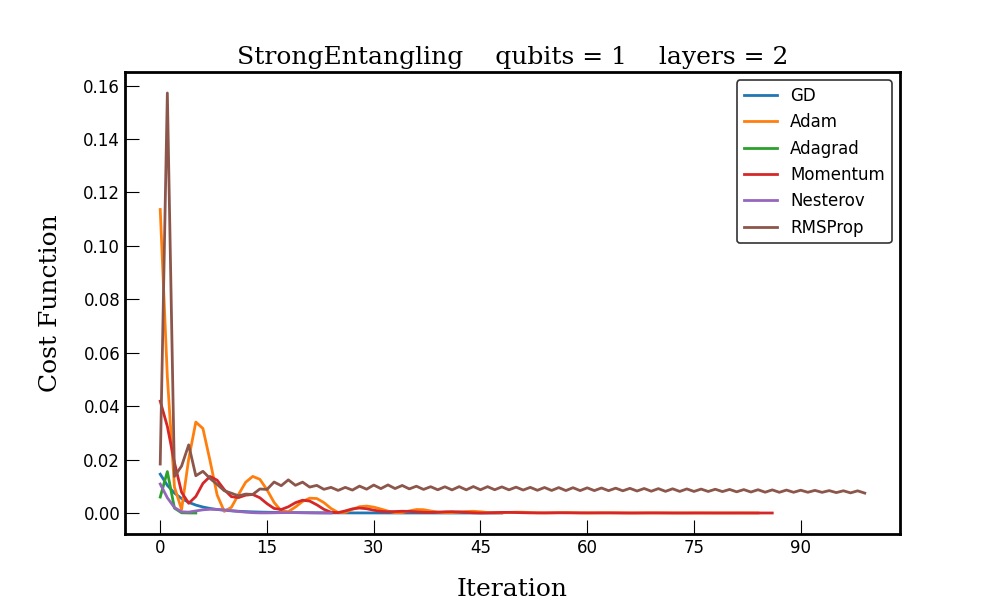
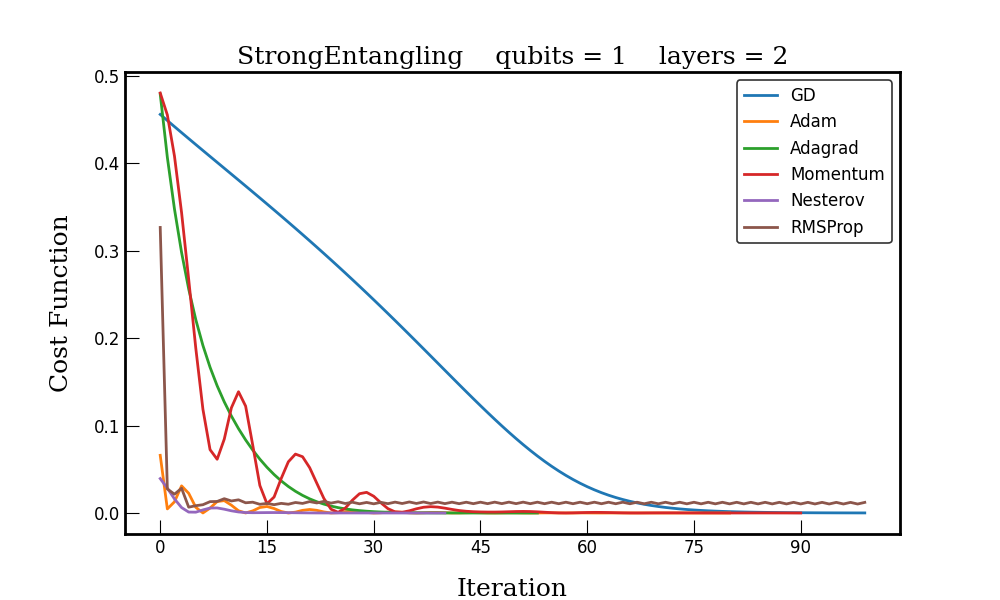
vqls_fast_and_slow.py now using embedding class

diff --git a/src/vqls/vqls_fast_and_slow.py b/src/vqls/vqls_fast_and_slow.py
@@ -1,6 +1,7 @@
 import src.utils.utils as utils
 from skopt import gp_minimize
 from src.utils.ansatz import *
+from src.utils.embedding import *
 from src.optimizers.optim_qml import *
 import matplotlib.pyplot as plt
 
@@ -18,13 +19,16 @@ class FastSlowVQLS:
         # Pauli decomposition
         self.mats, self.wires, self.c = utils.get_paulis(self.A)
 
-        # variational circuit
+        # quantum circuit
+        self.optimizer = None
+        self.stateprep = None
         self.ansatz = None
 
-    def opt(self, optimizer=None, ansatz=None, epochs=100, epochs_bo=None, tol=1e-4):
+    def opt(self, optimizer=None, ansatz=None, stateprep=None, epochs=100, epochs_bo=None, tol=1e-4):
         """
         Minimize the cost function using a Variational Quantum Circuit.
 
+        :param stateprep: State Preparation of the quantum state |b>
         :param optimizer: Optimizer instance (default: GradientDescentQML). Examples: GradientDescent, Adam.
         :param ansatz: Variational circuit ansatz instance (default: StrongEntangling with 1 layer).
         :param epochs: Max steps for local optimization (default: 100).
@@ -41,12 +45,19 @@ class FastSlowVQLS:
         """
 
         if optimizer is None:
-            optimizer = GradientDescentQML()
+            self.optimizer = GradientDescentQML()
+        else:
+            self.optimizer = optimizer
 
         if ansatz is None:
             self.ansatz = StrongEntangling(nqubits=self.nqubits, nlayers=1)
         else:
             self.ansatz = ansatz
+
+        if stateprep is None:
+            self.stateprep = AmplitudeEmbedding(wires=range(self.nqubits))
+        else:
+            self.stateprep = stateprep
 
         # initial weights
         w = self.ansatz.init_weights()
@@ -56,7 +67,7 @@ class FastSlowVQLS:
             w, _ = self.bayesopt_init(epochs_bo=epochs_bo)
 
         # local optimization
-        w, cost_vals, iters = optimizer.optimize(func=self.cost, w=w, epochs=epochs, tol=tol)
+        w, cost_vals, iters = self.optimizer.optimize(func=self.cost, w=w, epochs=epochs, tol=tol)
 
         return w, cost_vals
 
@@ -202,7 +213,8 @@ class FastSlowVQLS:
         - This method uses the AmplitudeEmbedding function from the PennyLane library to normalize and embed the vector.
         - Ensure that the length of vec is compatible with the number of qubits (2^n).
         """
-        qml.AmplitudeEmbedding(features=vec, wires=range(self.nqubits), normalize=True)  # O(n^2)
+        # qml.AmplitudeEmbedding(features=vec, wires=range(self.nqubits), normalize=True)  # O(n^2)
+        self.stateprep.prep(vec=vec)
 
     def CA(self, idx, matrices, qubits):
         """
@@ -384,13 +396,16 @@ if __name__ == "__main__":
 
     ansatz_ = StrongEntangling(nqubits=nqubits, nlayers=nlayers)
 
+    prep_ = AmplitudeEmbedding(wires=range(nqubits))
+
     cost_hists = {}
 
     for optim in optims:
         wopt, cost_hist = solver.opt(optimizer=optim,
                                      ansatz=ansatz_,
+                                     stateprep=prep_,
                                      epochs=maxiter,
-                                     epochs_bo=10,
+                                     epochs_bo=None,
                                      tol=1e-6)
 
         cost_hists[optim.name] = cost_hist
